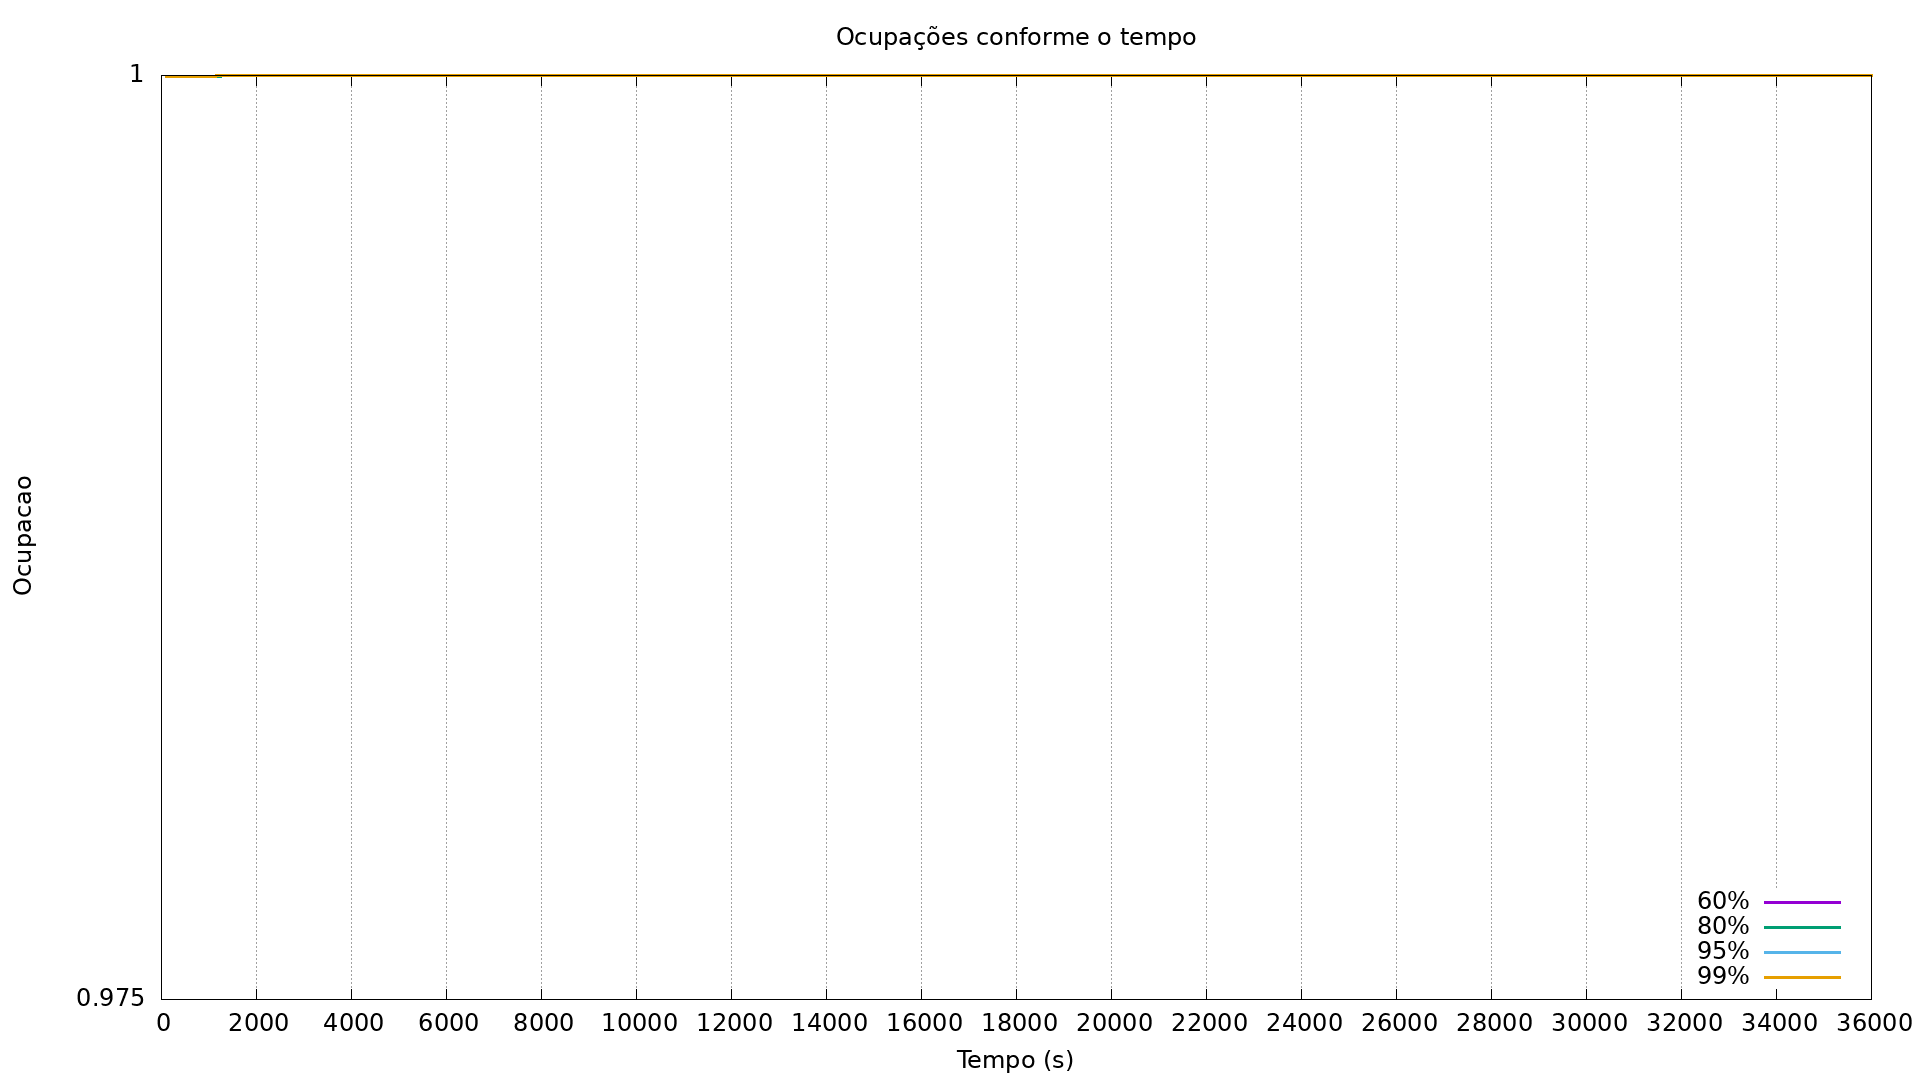
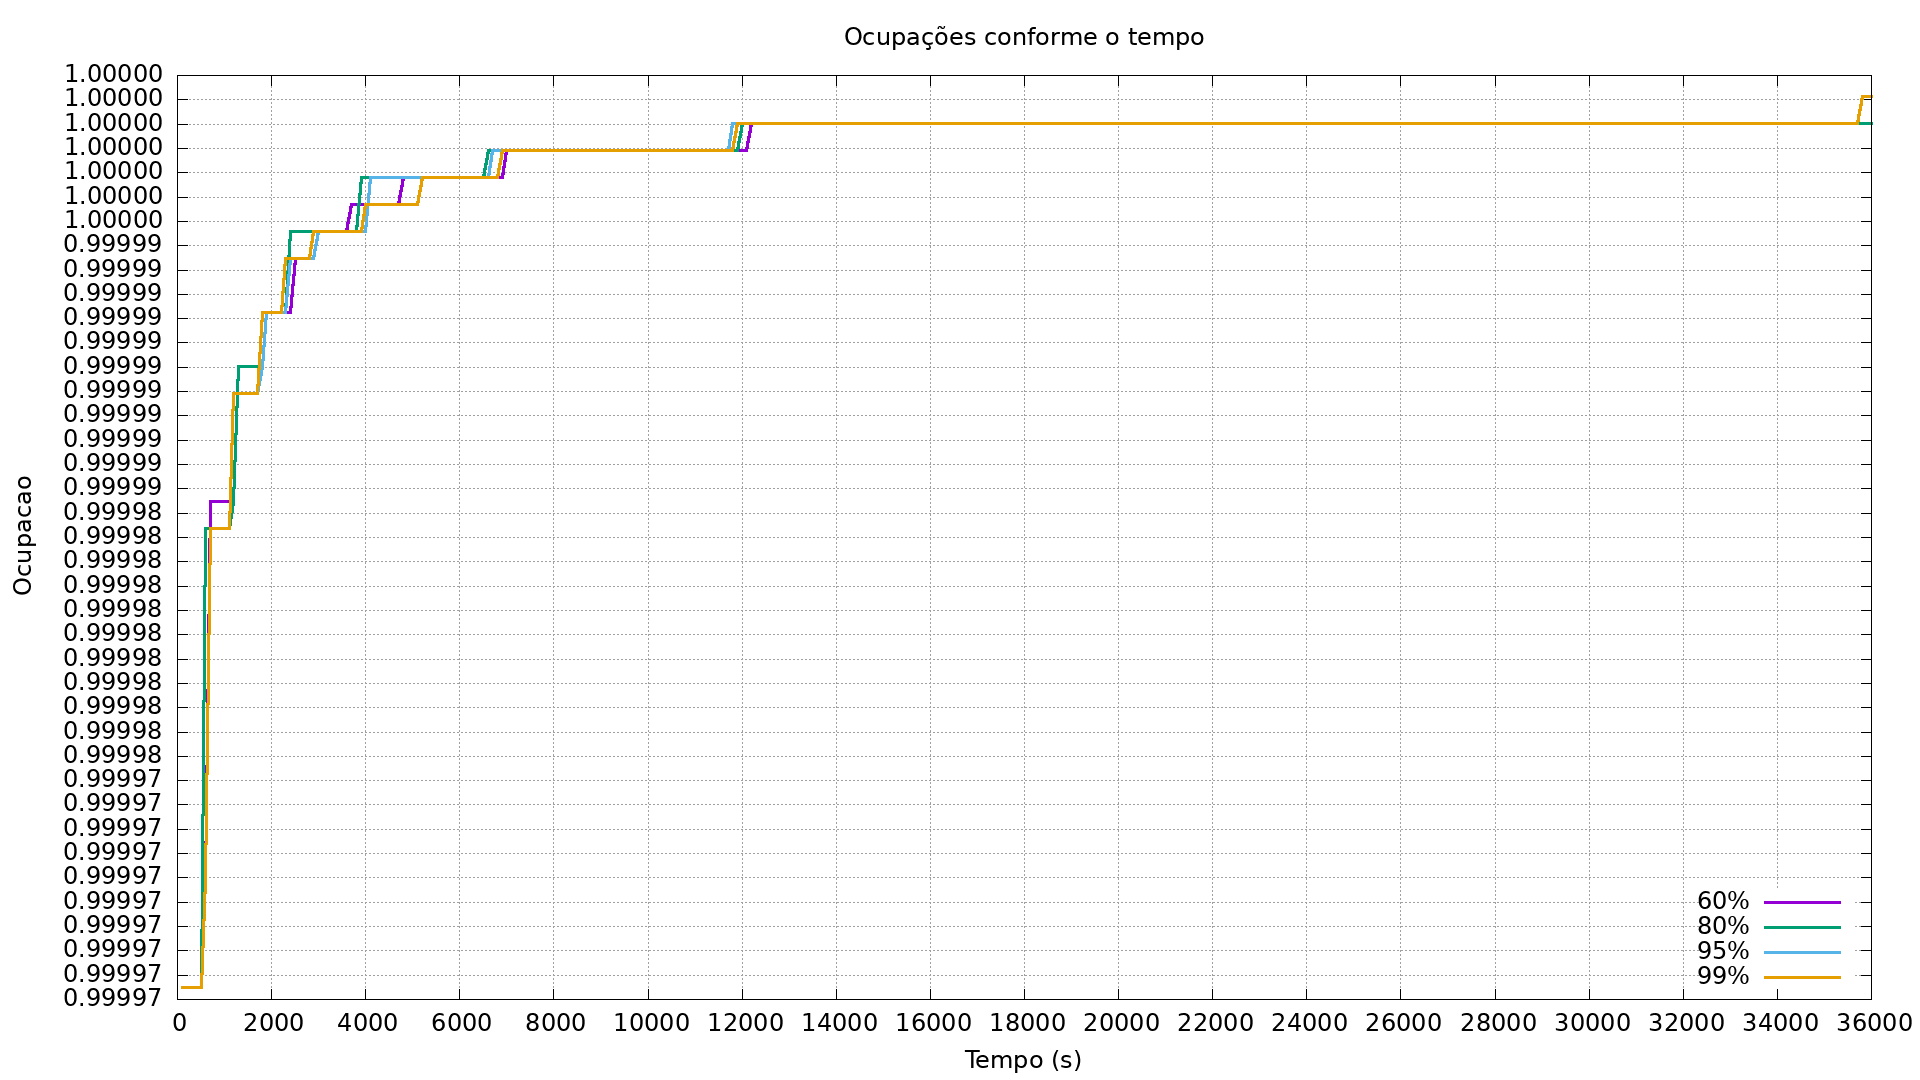
bugfix: ticks de gráfico no eixo y

diff --git a/Simulador 2 - Parte 2/simulacao.c b/Simulador 2 - Parte 2/simulacao.c
@@ -127,7 +127,7 @@ void inicia_chamada(chamada *g)
     g->tempo_inicio[0] = (15 * log(aleatorio())) * -1;
     g->duracao[0] = (60 * log(aleatorio())) * -1;
     g->tamanho[0] = g->duracao[0] * 64;
-    for (int i = 1; i < TEMPO_SIMULACAO; i++)
+    for (int i = 1; i < 2110; i++)
     {
         g->tempo_inicio[i] = 0;
         g->duracao[i] = 0;
@@ -552,8 +552,8 @@ void main()
         resolve(taxas[i], &graficos[i], &chamada);
     }
 
-    cria_grafico(graficos, "Tempo médio de fila para diferentes ocupações", "E[N]", "Tempo (s)", 2000, 10, "E[N]", "left top");
-    cria_grafico(graficos, "Tempo médio de espera para diferentes ocupações", "E[W]", "Tempo (s)", 2000, 0.1, "E[W]", "left top");
-    cria_grafico(graficos, "Ocupações conforme o tempo", "Ocupacao", "Tempo (s)", 2000, 0.025, "Ocupacao", "right bot");
+    cria_grafico(graficos, "Tempo médio de fila para diferentes ocupações", "E[N]", "Tempo (s)", 2000, 0.0000009, "E[N]", "left top");
+    cria_grafico(graficos, "Tempo médio de espera para diferentes ocupações", "E[W]", "Tempo (s)", 2000, 0.0000009, "E[W]", "left top");
+    cria_grafico(graficos, "Ocupações conforme o tempo", "Ocupacao", "Tempo (s)", 2000, 0.0000009, "Ocupacao", "right bot");
     cria_grafico(graficos, "Erro de Little para diferentes ocupações", "Little", "Tempo (s)", 2000, 0.0000000090, "Little", "left top");
 }
